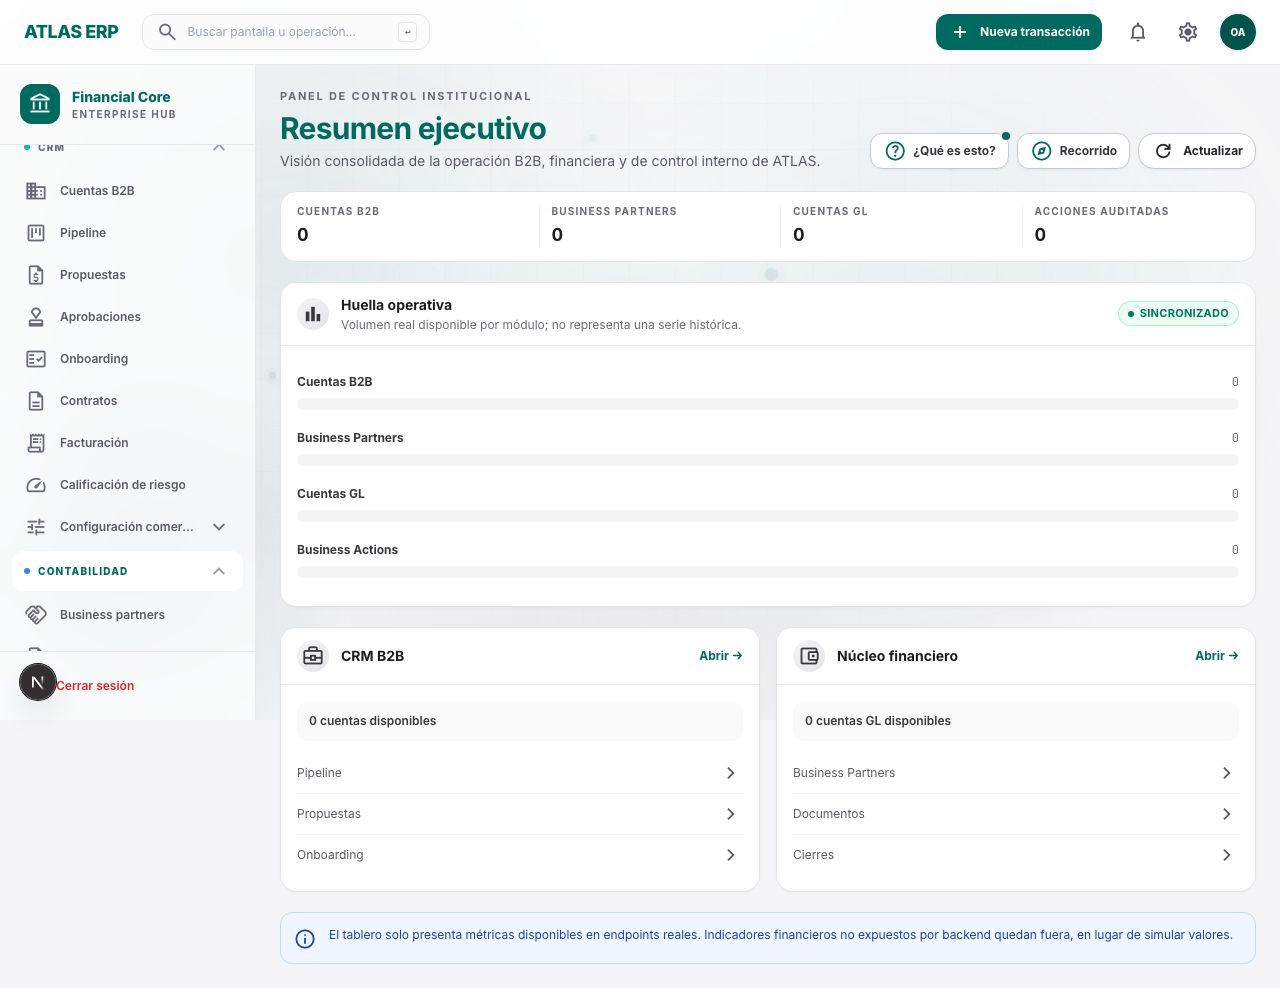
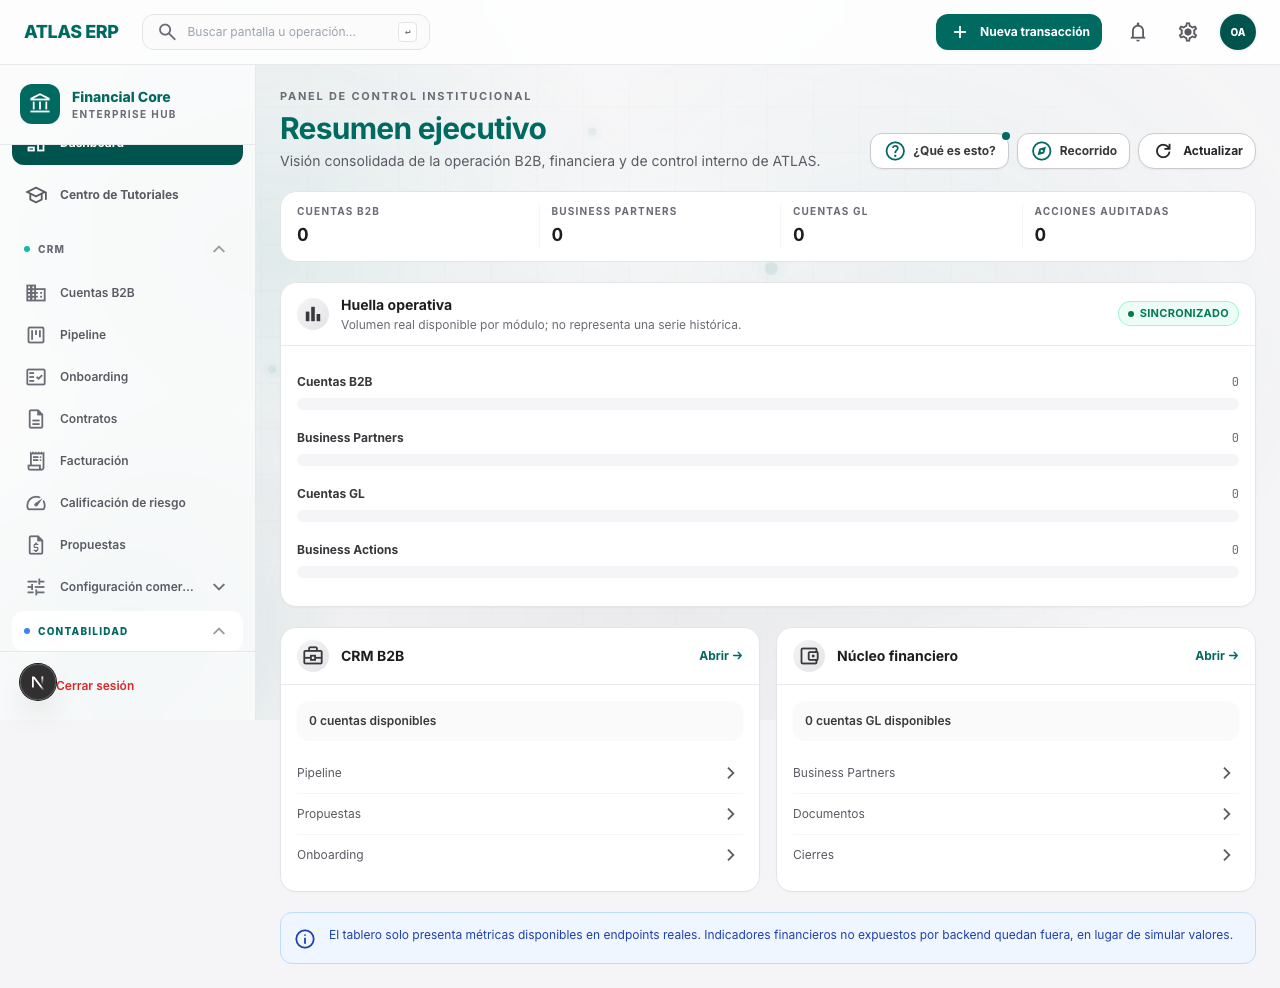
Propuestas sale del pipeline y cierra el menú de CRM
Se había metido como tercera pestaña del pipeline con el argumento de que una propuesta es el paso
siguiente de una oportunidad. Pablo había pedido lo contrario —Propuestas al final—, así que sale:
la cartera vuelve a ser pantalla propia en `/operaciones/crm/propuestas` y su entrada baja a la
ÚLTIMA del grupo CRM, detrás de «Calificación de riesgo».

El pipeline se queda con tres pestañas —Oportunidades · Tablero · Aprobaciones—. Aprobaciones sí
sigue dentro, y la última, porque una excepción de MDR sólo se decide mirando el trato que la pidió.

`components/screens/ProposalsDirectory.tsx` desaparece: existía sólo para poder pintar la cartera
embebida en la pestaña, y sin pestaña sobra la capa. Su contenido vuelve tal cual a la página.

Con los textos que afirmaban lo otro: la guía por ruta del pipeline («las propuestas están en la
tercera pestaña» → «viven en su propia pantalla»), el rótulo de la pantalla, `lib/viewRegistry.ts`
y las dos cabeceras de página.

El E2E afirma ahora lo que se ve: en `/propuestas` no hay ninguna pestaña, y en el menú Propuestas
es la última entrada de CRM. De paso, la prueba del menú agrupado seguía exigiendo «Aprobaciones»
en la barra lateral, de donde salió en `b1036f4`: habría quedado roja al primer CI.

Comprobado contra el servidor de desarrollo con el backend simulado (captura del menú actualizada).

Changed region(s): [[0.0, 0.1215, 0.1875, 0.668]]

diff --git a/app/operaciones/crm/propuestas/page.tsx b/app/operaciones/crm/propuestas/page.tsx
@@ -1,13 +1,134 @@
-import { CrmPipelineScreen } from '@/components/screens/CrmPipelineScreen';
+/*
+ * Cliente, y no servidor, porque esta pagina pasa una FUNCION (`load`) a un componente de cliente.
+ *
+ * Un componente de servidor no puede pasar una funcion a uno de cliente —hay que serializarla para
+ * cruzar el limite y una funcion no se serializa—, asi que el prerender fallaba con «Functions
+ * cannot be passed directly to Client Components» y tumbaba la construccion entera.
+ */
+'use client';
+
+import { useCallback } from 'react';
+import { CrudDirectory } from '@/components/screens/CrudDirectory';
+import { b2bService } from '@/services/b2bService';
+import type { ResourceRow } from '@/services/types';
+
+/** Estados en los que la propuesta todavía es un borrador y admite correcciones. */
+const EDITABLES = new Set(['DRAFT', 'PENDING_APPROVAL']);
+/** A los anteriores se suma la rechazada: ya no vale para nada y puede retirarse del listado. */
+const BORRABLES = new Set(['DRAFT', 'PENDING_APPROVAL', 'REJECTED']);
+/** Mientras no esté aceptada: de la aceptada cuelga el contrato, y rechazarla lo dejaría huérfano. */
+const RECHAZABLES = new Set(['DRAFT', 'PENDING_APPROVAL', 'SENT']);
+
+const estado = (row: ResourceRow) => String(row.status ?? '').toUpperCase();
 
 /**
- * Las propuestas son una pestaña del pipeline, no una pantalla aparte.
+ * Propuestas comerciales: primero la cartera, después el constructor.
  *
- * Se emiten contra una oportunidad y de la aceptada cuelga el contrato: mirar «qué le ofrecimos a
- * este comercio» obligaba a salir del embudo y volver por el menú lateral. La ruta se conserva —la
- * usan el menú, el panel de inicio, las guías por ruta y los recorridos guiados— y abre la misma
- * pantalla con la pestaña «Propuestas» delante.
+ * Antes esta vista abría con el formulario de alta y dejaba el listado como un panel de resumen
+ * truncado encima. La pregunta que trae a alguien aquí —«¿qué propuestas hay y en qué estado
+ * están?»— no tenía respuesta: la tabla no filtraba, no paginaba y no dejaba tocar ninguna fila,
+ * así que el estado real de la cartera había que deducirlo. Ahora la tabla es la pantalla.
+ *
+ * Sin pestañas: «Nueva propuesta» y «Rechazar» eran verbos metidos en la barra de secciones. El alta
+ * lleva líneas y columna lateral, así que va a su propia página (`/crear`); rechazar va en la fila.
+ *
+ * Y pantalla propia, no pestaña del pipeline. Estuvo un rato metida ahí dentro con el argumento de
+ * que una propuesta es el paso siguiente de una oportunidad; no se queda, por decisión de producto:
+ * la cartera de propuestas se consulta y se trabaja por sí sola —qué se ofreció, a quién, por
+ * cuánto y hasta cuándo—, y esconderla detrás del embudo obligaba a entrar al pipeline para algo
+ * que no es mover una oportunidad de etapa. Su entrada va la ÚLTIMA del grupo CRM en el menú.
  */
 export default function ProposalsPage() {
-  return <CrmPipelineScreen initialTab="propuestas" />;
+  const load = useCallback(() => b2bService.listProposals(), []);
+
+  return (
+    <CrudDirectory
+      moduleLabel="CRM"
+      title="Propuestas comerciales"
+      description="Cartera de propuestas con su vigencia, su ingreso estimado y el punto del ciclo en el que está cada una."
+      load={load}
+      labelKey="proposalNumber"
+      searchPlaceholder="Buscar por número, comercio o estado…"
+      emptyHint="Usa el botón «Nueva propuesta» para armar la primera."
+      columns={[
+        { key: 'proposalNumber', label: 'Propuesta', kind: 'mono' },
+        { key: 'tradeName', label: 'Comercio' },
+        { key: 'status', label: 'Estado', kind: 'status' },
+        { key: 'validUntil', label: 'Válida hasta', kind: 'date' },
+        { key: 'totalEstimatedMonthlyRevenue', label: 'Ingreso mensual est.', kind: 'money', align: 'right' },
+        { key: 'createdAt', label: 'Creada', kind: 'date' },
+      ]}
+      filters={[
+        { key: 'status', label: 'Estado' },
+        { key: 'tradeName', label: 'Comercio', kind: 'text', placeholder: 'Filtrar comercio' },
+      ]}
+      create={{ label: 'Nueva propuesta', href: '/operaciones/crm/propuestas/crear' }}
+      extraActions={[
+        {
+          key: 'enviar',
+          label: 'Enviar al cliente',
+          icon: 'send',
+          run: (row) => b2bService.sendProposal(String(row.id ?? '')),
+          confirm: {
+            title: 'Enviar la propuesta',
+            message: 'Quedará marcada como enviada y con fecha de envío. Si tiene aprobaciones pendientes, no saldrá hasta resolverlas.',
+            confirmLabel: 'Enviar',
+          },
+        },
+        {
+          key: 'aceptar',
+          label: 'Marcar aceptada',
+          icon: 'task_alt',
+          run: (row) => b2bService.acceptProposal(String(row.id ?? '')),
+          confirm: {
+            title: 'Marcar la propuesta como aceptada',
+            message: 'La oportunidad pasa a CONTRACTING y a partir de aquí se genera el contrato. Solo una propuesta enviada puede aceptarse.',
+            confirmLabel: 'Aceptar',
+          },
+        },
+        {
+          /*
+           * Rechazar es una operación SOBRE una propuesta. Era una pestaña que volvía a pedir en un
+           * desplegable la propuesta que el usuario tenía delante; ahora sale en su fila.
+           */
+          key: 'rechazar',
+          label: 'Rechazar',
+          icon: 'cancel',
+          tone: 'danger',
+          enabled: (row) => RECHAZABLES.has(estado(row)),
+          form: {
+            title: (row) => `Rechazar ${String(row.proposalNumber ?? 'la propuesta')}`,
+            description: 'El motivo es obligatorio: un rechazo sin explicación no sirve para decidir la siguiente oferta.',
+            fields: [
+              { name: 'reason', label: 'Motivo del rechazo', tooltip: 'Por qué se rechaza la propuesta; el comercial lo lee para corregirla.', type: 'textarea', required: true, span: 3, placeholder: 'Por qué el cliente o el comité no la acepta.' },
+            ],
+            submit: (row, payload) => b2bService.rejectProposal(String(row.id ?? ''), String(payload.reason ?? '')),
+            submitLabel: 'Rechazar propuesta',
+          },
+        },
+      ]}
+      edit={{
+        title: 'Corregir la propuesta',
+        description: 'Solo la cabecera, y solo mientras es borrador. Los términos comerciales son el acuerdo: cambiarlos bajo el mismo número es pactar otra cosa, y eso se hace con una propuesta nueva.',
+        enabled: (row) => EDITABLES.has(estado(row)),
+        fields: [
+          // El correlativo lo asignó el backend: se enseña, no se reescribe (y no viaja en el envío).
+          { name: 'proposalNumber', label: 'Número de propuesta', tooltip: 'Número de la propuesta; lo asigna el sistema al guardar.', assignedByBackend: true },
+          { name: 'validUntil', label: 'Válida hasta', tooltip: 'Fecha hasta la que el cliente puede aceptar la propuesta.', type: 'date', optional: true },
+          { name: 'totalEstimatedMonthlyRevenue', label: 'Ingreso mensual estimado', tooltip: 'Ingreso mensual estimado en bolivianos si se acepta.', type: 'number', valueKind: 'number', optional: true },
+        ],
+        submit: (id, payload) => b2bService.updateProposal(id, payload),
+      }}
+      remove={{
+        submit: (id) => b2bService.deleteProposal(id),
+        enabled: (row) => BORRABLES.has(estado(row)),
+        warning: 'Se van con ella sus términos comerciales y sus solicitudes de aprobación. Una propuesta enviada o aceptada no se borra: se rechaza, para que quede constancia.',
+      }}
+      notice={{
+        tone: 'info',
+        title: 'Qué se puede tocar y qué no',
+        body: 'El lápiz y la papelera solo aparecen mientras la propuesta es un borrador (o quedó rechazada). Enviada o aceptada es la prueba de lo que se ofreció al cliente, y de la aceptada cuelga el contrato. Rechazar se ofrece en la fila mientras no esté aceptada.',
+      }}
+    />
+  );
 }

diff --git a/components/screens/CrmPipelineScreen.tsx b/components/screens/CrmPipelineScreen.tsx
@@ -6,29 +6,27 @@ import { WorkspaceHeader } from '@/components/atlas/WorkspaceHeader';
 import { ApprovalsDirectory } from '@/components/screens/ApprovalsDirectory';
 import { CrudDirectory } from '@/components/screens/CrudDirectory';
 import { OpportunityKanbanScreen } from '@/components/screens/OpportunityKanbanScreen';
-import { ProposalsDirectory } from '@/components/screens/ProposalsDirectory';
 import { b2bService } from '@/services/b2bService';
 import { loadB2BAccounts, loadInternalUsers } from '@/services/optionLoaders';
 
 interface CrmPipelineScreenProps {
   /** Pestaña con la que abre la pantalla; la decide la ruta por la que se entró. */
-  initialTab?: 'listado' | 'tablero' | 'propuestas' | 'aprobaciones' | undefined;
+  initialTab?: 'listado' | 'tablero' | 'aprobaciones' | undefined;
 }
 
 /**
- * El embudo comercial entero en una pantalla: oportunidades, su tablero y sus propuestas.
+ * El embudo comercial en una pantalla: las oportunidades, su tablero y sus excepciones.
  *
  * El pipeline solo existía como kanban. Un tablero está bien para mover una tarjeta de etapa, pero
  * no responde «cuántas hay», «cuáles cierran este mes» ni «cuáles son de este ejecutivo»: no
  * filtra, no ordena, no pagina y reparte los registros en siete columnas que hay que recorrer a
  * mano. El alta, además, no estaba en ninguna pantalla: una oportunidad solo nacía por API.
  *
- * Las propuestas entran aquí como una pestaña más porque son el paso siguiente del MISMO trato: una
- * propuesta se emite contra una oportunidad y de la aceptada cuelga el contrato. Estaban en otra
- * pantalla del menú lateral, así que comprobar «qué le ofrecimos a este comercio» obligaba a salir
- * del embudo y volver. Las dos rutas —`/oportunidades` y `/propuestas`— siguen existiendo y pintan
- * esta misma pantalla; lo único que cambia es con qué pestaña abre, para que los enlaces de fuera,
- * el menú lateral y las guías por ruta sigan llevando a donde decían.
+ * Aquí NO hay pestaña de propuestas. La cartera de propuestas es pantalla propia
+ * (`/operaciones/crm/propuestas`), la última entrada del grupo CRM: se metió un rato como pestaña y
+ * se sacó por decisión de producto, así que quien la busque no la encuentra dentro del embudo.
+ * `/operaciones/crm/aprobaciones` sí pinta esta pantalla, abriendo por su pestaña, porque una
+ * excepción de MDR solo se entiende mirando el trato que la pidió.
  */
 export function CrmPipelineScreen({ initialTab = 'listado' }: CrmPipelineScreenProps = {}) {
   const [version, setVersion] = useState(0);
@@ -40,7 +38,7 @@ export function CrmPipelineScreen({ initialTab = 'listado' }: CrmPipelineScreenP
       <WorkspaceHeader
         breadcrumbs={[{ label: 'CRM' }, { label: 'Pipeline comercial' }]}
         title="Pipeline comercial"
-        description="El embudo de punta a punta: qué se está negociando y por cuánto, en qué etapa va cada trato, qué propuestas han salido de él y qué excepciones hay que autorizar."
+        description="El embudo de punta a punta: qué se está negociando y por cuánto, en qué etapa va cada trato y qué excepciones hay que autorizar."
       />
       <TabbedPanels
         keepMounted
@@ -107,17 +105,11 @@ export function CrmPipelineScreen({ initialTab = 'listado' }: CrmPipelineScreenP
             icon: 'view_kanban',
             content: <OpportunityKanbanScreen embedded version={version} />,
           },
-          {
-            id: 'propuestas',
-            label: 'Propuestas',
-            icon: 'request_quote',
-            content: <ProposalsDirectory embedded />,
-          },
           /*
            * Aprobaciones va la ÚLTIMA, y es una decisión de orden, no de sitio: las pestañas
-           * siguen el recorrido del trato —se registra la oportunidad, se mueve por el tablero, se
-           * emite la propuesta y, sólo si pide una excepción, alguien la autoriza—. Ponerla antes
-           * sugeriría que hay algo que aprobar en cada trato, y la mayoría no pasa por aquí.
+           * siguen el recorrido del trato —se registra la oportunidad, se mueve por el tablero y,
+           * sólo si la propuesta que sale de él pide una excepción, alguien la autoriza—. Ponerla
+           * antes sugeriría que hay algo que aprobar en cada trato, y la mayoría no pasa por aquí.
            */
           {
             id: 'aprobaciones',

diff --git a/lib/viewRegistry.ts b/lib/viewRegistry.ts
@@ -15,8 +15,8 @@ export const atlasViewLinks: AtlasViewLink[] = [
   { area: 'Panel operaciones', phase: 'CRM B2B', title: 'Crear cuenta B2B', href: '/operaciones/crm/cuentas/crear', status: 'solo-accion', backend: 'POST /b2b/accounts' },
   { area: 'Panel operaciones', phase: 'CRM B2B', title: 'Detalle de cuenta', href: '/operaciones/crm/cuentas/detalle', status: 'solo-accion', backend: 'GET /b2b/accounts/:id' },
   { area: 'Panel operaciones', phase: 'CRM B2B', title: 'Calificar cuenta', href: '/operaciones/crm/cuentas/calificar', status: 'solo-accion', backend: 'POST /b2b/accounts/:accountId/qualify' },
-  { area: 'Panel operaciones', phase: 'CRM B2B', title: 'Pipeline comercial (oportunidades, tablero y propuestas)', href: '/operaciones/crm/oportunidades', status: 'solo-accion', backend: 'POST/PATCH /b2b/opportunities' },
-  { area: 'Panel operaciones', phase: 'CRM B2B', title: 'Propuestas comerciales (pestaña del pipeline)', href: '/operaciones/crm/propuestas', status: 'integrada', backend: 'GET /b2b/proposals · PATCH /b2b/proposals/:id/{send,accept,reject}' },
+  { area: 'Panel operaciones', phase: 'CRM B2B', title: 'Pipeline comercial (oportunidades, tablero y aprobaciones)', href: '/operaciones/crm/oportunidades', status: 'solo-accion', backend: 'POST/PATCH /b2b/opportunities' },
+  { area: 'Panel operaciones', phase: 'CRM B2B', title: 'Propuestas comerciales', href: '/operaciones/crm/propuestas', status: 'integrada', backend: 'GET /b2b/proposals · PATCH /b2b/proposals/:id/{send,accept,reject}' },
   { area: 'Panel operaciones', phase: 'CRM B2B', title: 'Nueva propuesta comercial', href: '/operaciones/crm/propuestas/crear', status: 'solo-accion', backend: 'POST /b2b/proposals' },
   { area: 'Panel operaciones', phase: 'CRM B2B', title: 'Excepciones comerciales (pestaña del pipeline)', href: '/operaciones/crm/aprobaciones', status: 'solo-accion', backend: 'PATCH /b2b/proposals/approvals/:id/decision' },
   { area: 'Panel operaciones', phase: 'CRM B2B', title: 'Contrato comercial', href: '/operaciones/crm/contratos', status: 'solo-accion', backend: 'POST/PATCH /b2b/contracts' },

diff --git a/components/layout/navigation.ts b/components/layout/navigation.ts
@@ -61,6 +61,9 @@ const ADS: NavGroup = {
  * un comercio delante se queda arriba; lo que se configura una vez y se revisa de tarde en tarde,
  * abajo. Contabilidad ya estaba así desde antes y es el patrón que se copia.
  *
+ * «Propuestas» va la ÚLTIMA de CRM, y va donde va por decisión de producto: no se sube junto al
+ * pipeline ni se vuelve a meter dentro de él como pestaña.
+ *
  * Y una entrada se fue del todo: «Centro de comando», que `lib/viewRegistry.ts` declara como
  * `brecha-backend` —«sin endpoint de búsqueda global federada»—. Una pantalla que el sistema aún
  * no puede alimentar no es una opción del menú: es una puerta a un cuarto vacío. La ruta sigue
@@ -72,11 +75,11 @@ export const NAVIGATION: NavGroup[] = [
     items: [
       { label: 'Cuentas B2B', href: '/operaciones/crm/cuentas', icon: 'domain' },
       { label: 'Pipeline', href: '/operaciones/crm/oportunidades', icon: 'view_kanban' },
-      { label: 'Propuestas', href: '/operaciones/crm/propuestas', icon: 'request_quote' },
       { label: 'Onboarding', href: '/operaciones/crm/onboarding', icon: 'fact_check' },
       { label: 'Contratos', href: '/operaciones/crm/contratos', icon: 'description' },
       { label: 'Facturación', href: '/operaciones/crm/facturacion', icon: 'receipt_long' },
       { label: 'Calificación de riesgo', href: '/operaciones/crm/calificacion-riesgo', icon: 'speed' },
+      { label: 'Propuestas', href: '/operaciones/crm/propuestas', icon: 'request_quote' },
     ],
     subGroups: [
       {

diff --git a/components/tutorial/guias/guias-crm.ts b/components/tutorial/guias/guias-crm.ts
@@ -109,7 +109,7 @@ export const GUIAS_CRM: Readonly<Record<string, ScreenGuide>> = {
   '/operaciones/crm/oportunidades': {
     eyebrow: 'CRM B2B',
     title: 'Pipeline comercial',
-    intro: 'El embudo entero: qué negociaciones hay abiertas, en qué etapa va cada una y qué propuestas han salido de ellas.',
+    intro: 'El embudo entero: qué negociaciones hay abiertas, en qué etapa va cada una y qué excepciones esperan una decisión.',
     sections: [
       {
         title: 'Una oportunidad es un trato, no una empresa',
@@ -124,8 +124,8 @@ export const GUIAS_CRM: Readonly<Record<string, ScreenGuide>> = {
         body: 'Una propuesta se emite contra una oportunidad, y un contrato contra una propuesta aceptada. Dejar el tablero desactualizado bloquea el paso siguiente.',
       },
       {
-        title: 'Las propuestas están en la tercera pestaña',
-        body: 'Son el paso siguiente del mismo trato, así que se consultan aquí sin salir del embudo: qué se le ofreció a cada comercio, por cuánto y en qué punto del ciclo está.',
+        title: 'Las propuestas viven en su propia pantalla',
+        body: 'Lo que se le ofreció a cada comercio se consulta en «Propuestas», la última entrada del menú de CRM. Aquí se negocia la oportunidad; allí se arma y se sigue la oferta que sale de ella.',
       },
     ],
     tutorialId: 'crm-pipeline',

diff --git a/e2e/operaciones-menu.evidencia.spec.ts b/e2e/operaciones-menu.evidencia.spec.ts
@@ -291,9 +291,18 @@ test('el menú se agrupa: lo diario arriba, lo que se configura una vez en su ca
   }
 
   // Lo que se hace con un comercio delante, a la vista.
-  for (const diario of [/cuentas b2b/i, /onboarding/i, /propuestas/i, /aprobaciones/i]) {
+  for (const diario of [/cuentas b2b/i, /pipeline/i, /onboarding/i, /propuestas/i]) {
     await expect(lateral.getByText(diario).first()).toBeVisible();
   }
+
+  /*
+   * «Propuestas» cierra el grupo CRM: pantalla propia y la ÚLTIMA entrada, detrás de «Calificación
+   * de riesgo». No es una pestaña del pipeline, y por eso «Aprobaciones» —que sí lo es— no figura
+   * en el menú.
+   */
+  const crm = lateral.locator('section').filter({ has: page.getByRole('button', { name: /^CRM$/ }) }).first();
+  await expect(crm.locator('a[href^="/operaciones/crm/"]:visible').last()).toHaveText(/propuestas/i);
+  await expect(lateral.getByText(/aprobaciones/i)).toHaveCount(0);
 
   // Lo que se configura una vez baja a un cajón dentro de su grupo.
   await expect(lateral.getByText(/configuración comercial/i)).toBeVisible();

diff --git a/e2e/operaciones-real.spec.ts b/e2e/operaciones-real.spec.ts
@@ -74,10 +74,8 @@ test('las propuestas se leen, se filtran y se pueden corregir desde la propia fi
   await expect(page.getByTestId('crud-buscar')).toBeVisible();
   await expect(page.getByTestId('crud-crear')).toBeVisible();
 
-  // La cartera es una pestaña del pipeline: se llega por su ruta y abre con «Propuestas» delante.
-  await expect(page.getByTestId('tab-propuestas')).toHaveAttribute('aria-selected', 'true');
-  await expect(page.getByTestId('tab-listado')).toBeVisible();
-  await expect(page.getByTestId('tab-tablero')).toBeVisible();
+  // La cartera es pantalla propia, no una pestaña del pipeline: aquí no hay barra de pestañas.
+  await expect(page.getByRole('tab')).toHaveCount(0);
   // «Nueva propuesta» sigue siendo un botón de la barra, no una pestaña: abre el constructor.
   await page.getByTestId('crud-crear').click();
   await expect(page).toHaveURL(/\/operaciones\/crm\/propuestas\/crear$/);

diff --git a/app/operaciones/crm/oportunidades/page.tsx b/app/operaciones/crm/oportunidades/page.tsx
@@ -1,10 +1,10 @@
 import { CrmPipelineScreen } from '@/components/screens/CrmPipelineScreen';
 
 /**
- * El embudo comercial: oportunidades, tablero y propuestas en la misma barra de pestañas.
+ * El embudo comercial: oportunidades, su tablero y las excepciones que hay que autorizar.
  *
- * La pantalla vive en un componente porque `/operaciones/crm/propuestas` pinta exactamente la
- * misma, abriendo por su pestaña.
+ * La pantalla vive en un componente porque `/operaciones/crm/aprobaciones` pinta exactamente la
+ * misma, abriendo por su pestaña. Las propuestas NO están aquí: son pantalla propia.
  */
 export default function OpportunitiesPage() {
   return <CrmPipelineScreen />;
